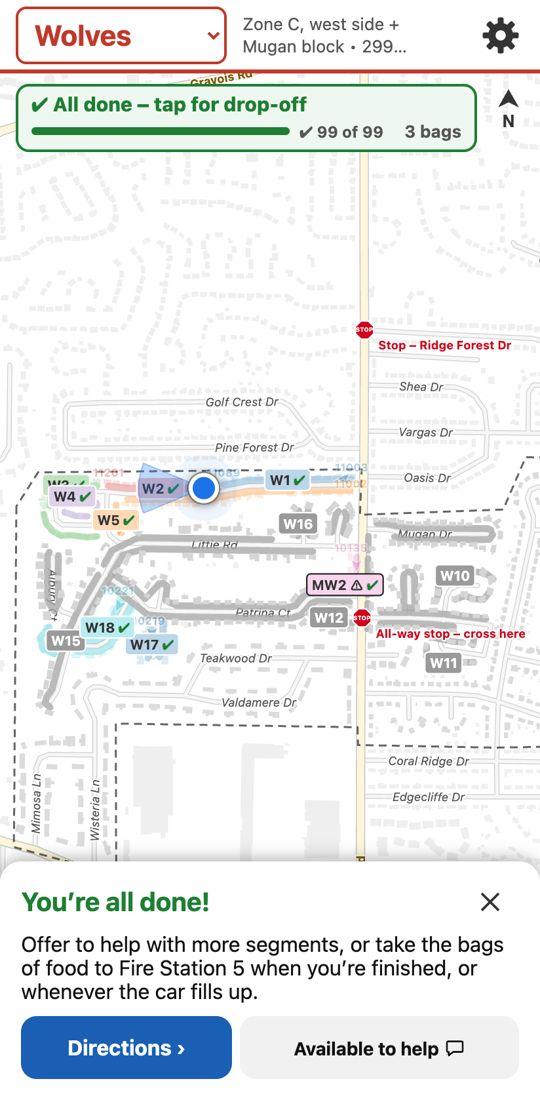
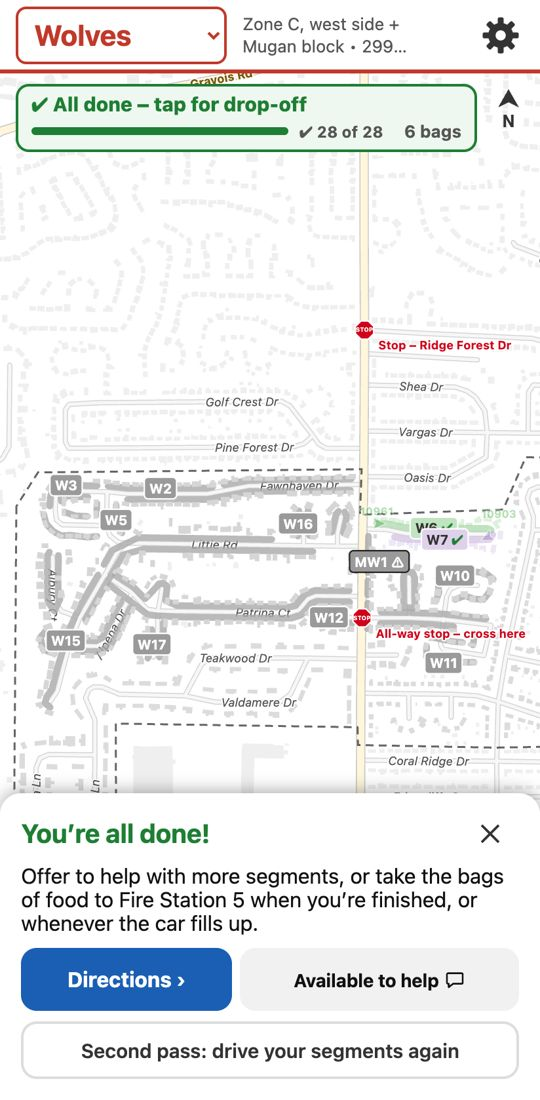
Second pass in the Week 2 guide page and printed handout

diff --git a/app/guide/week2.html b/app/guide/week2.html
@@ -59,6 +59,12 @@
 <div class="shots"><a href="img/w2-alldone.jpg"><img src="img/w2-alldone.jpg" alt="" loading="lazy"></a></div>
 </div></section>
 <section class="step">
+<div class="body"><div class="text">
+<p><b>Second pass (optional).</b> For bags put out late, tap <b>Second pass</b> on the all-done panel and drive your segments again. The box says <b>2nd pass</b>, the tally keeps adding, and Done only texts the dispatcher when a segment has new bags: “Wk2: Wolf A – W6 second pass, 2 more bags”.</p>
+</div>
+<div class="shots"><a href="img/w2-pass2.jpg"><img src="img/w2-pass2.jpg" alt="" loading="lazy"></a></div>
+</div></section>
+<section class="step">
 <h2>Tips</h2>
 <div class="body"><div class="text">
 <ul><li><b>One texter per car?</b> The others can turn off <b>Settings → Texting → Text the dispatcher when I tap Done</b>. Their Done then just marks the segment.</li><li><b>Setting up a phone, or the iPhone Home Screen app?</b> Settings → <b>Group</b> → <b>Scan QR code</b>, and scan the group’s code.</li><li>Take the bags of food to Fire Station 5 when you’re finished, or whenever the car fills up.</li><li>Last week’s ticks don’t carry over. Last week’s starred segments do, until a new QR code is scanned.</li></ul>

diff --git a/app/app.js b/app/app.js
@@ -2736,6 +2736,7 @@ function printHandouts(only) {
       tip("Can\u2019t get to some:", `${wk} \u2013 ${ids.slice(0, 2).join(", ") || ex} need coverage`);
       tip("All done, and room for more:", `${wk} available to help`);
       h("li", "", "Take the bags of food to Fire Station 5 (11020 Mueller Rd) when you\u2019re finished, or whenever the car fills up.", tl);
+      tip("Second pass for late bags (only if there are new ones):", `${wk} \u2013 ${ex} second pass, 2 more bags`);
     }
   }
   // 2. each page's map, drawn in exactly the space its list and help leave (pages sit off screen, so they measure)

diff --git a/tools/guide/build.py b/tools/guide/build.py
@@ -81,6 +81,9 @@ WEEK2 = {
         (None, [
             "**All done.** Tap the green box: **Directions** to Fire Station 5 (11020 Mueller Rd) for the bags of food, or **Available to help** to take more segments. Tap the fire station on the map for its address."],
             ["w2-alldone.jpg"]),
+        (None, [
+            "**Second pass (optional).** For bags put out late, tap **Second pass** on the all-done panel and drive your segments again. The box says **2nd pass**, the tally keeps adding, and Done only texts the dispatcher when a segment has new bags: \u201cWk2: Wolf A \u2013 W6 second pass, 2 more bags\u201d."],
+            ["w2-pass2.jpg"]),
         ("Tips", [
             "- **One texter per car?** The others can turn off **Settings → Texting → Text the dispatcher when I tap Done**. Their Done then just marks the segment.",
             "- **Setting up a phone, or the iPhone Home Screen app?** Settings → **Group** → **Scan QR code**, and scan the group’s code.",
